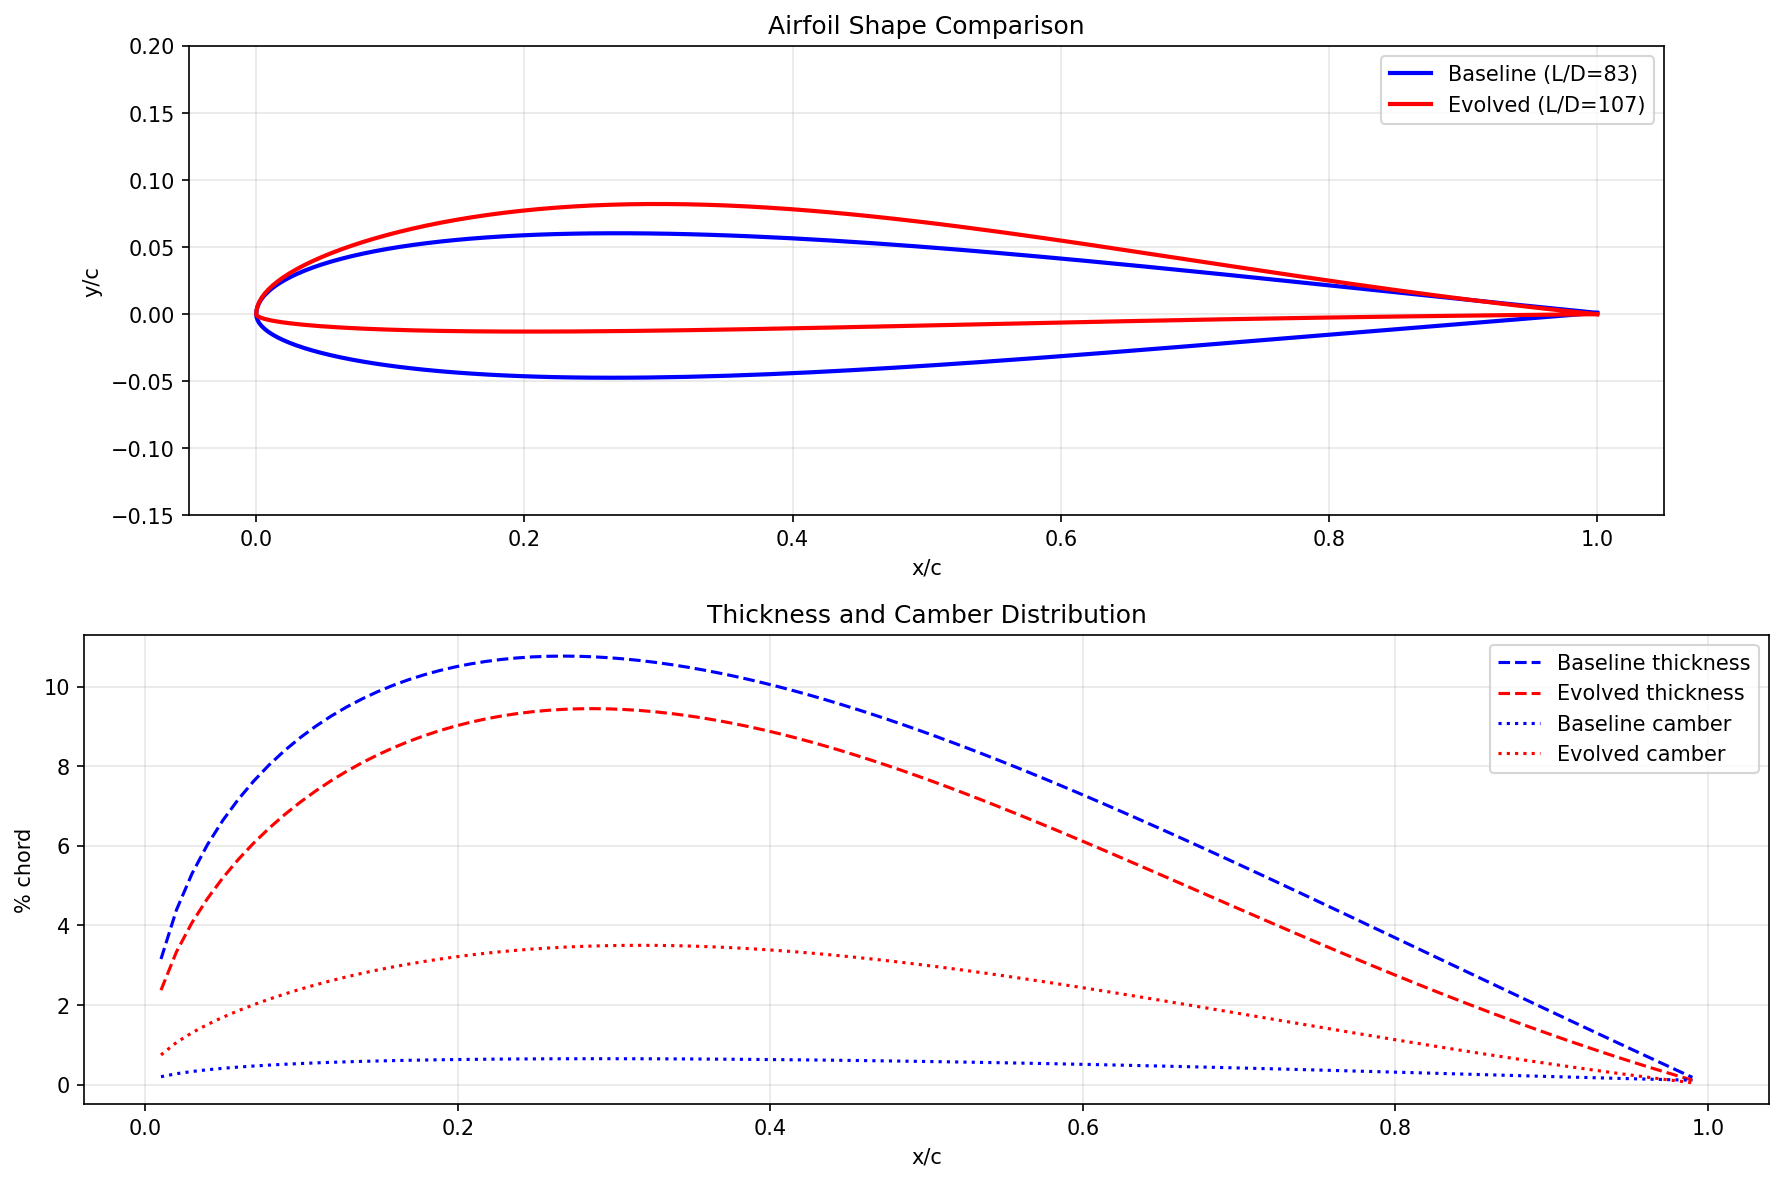
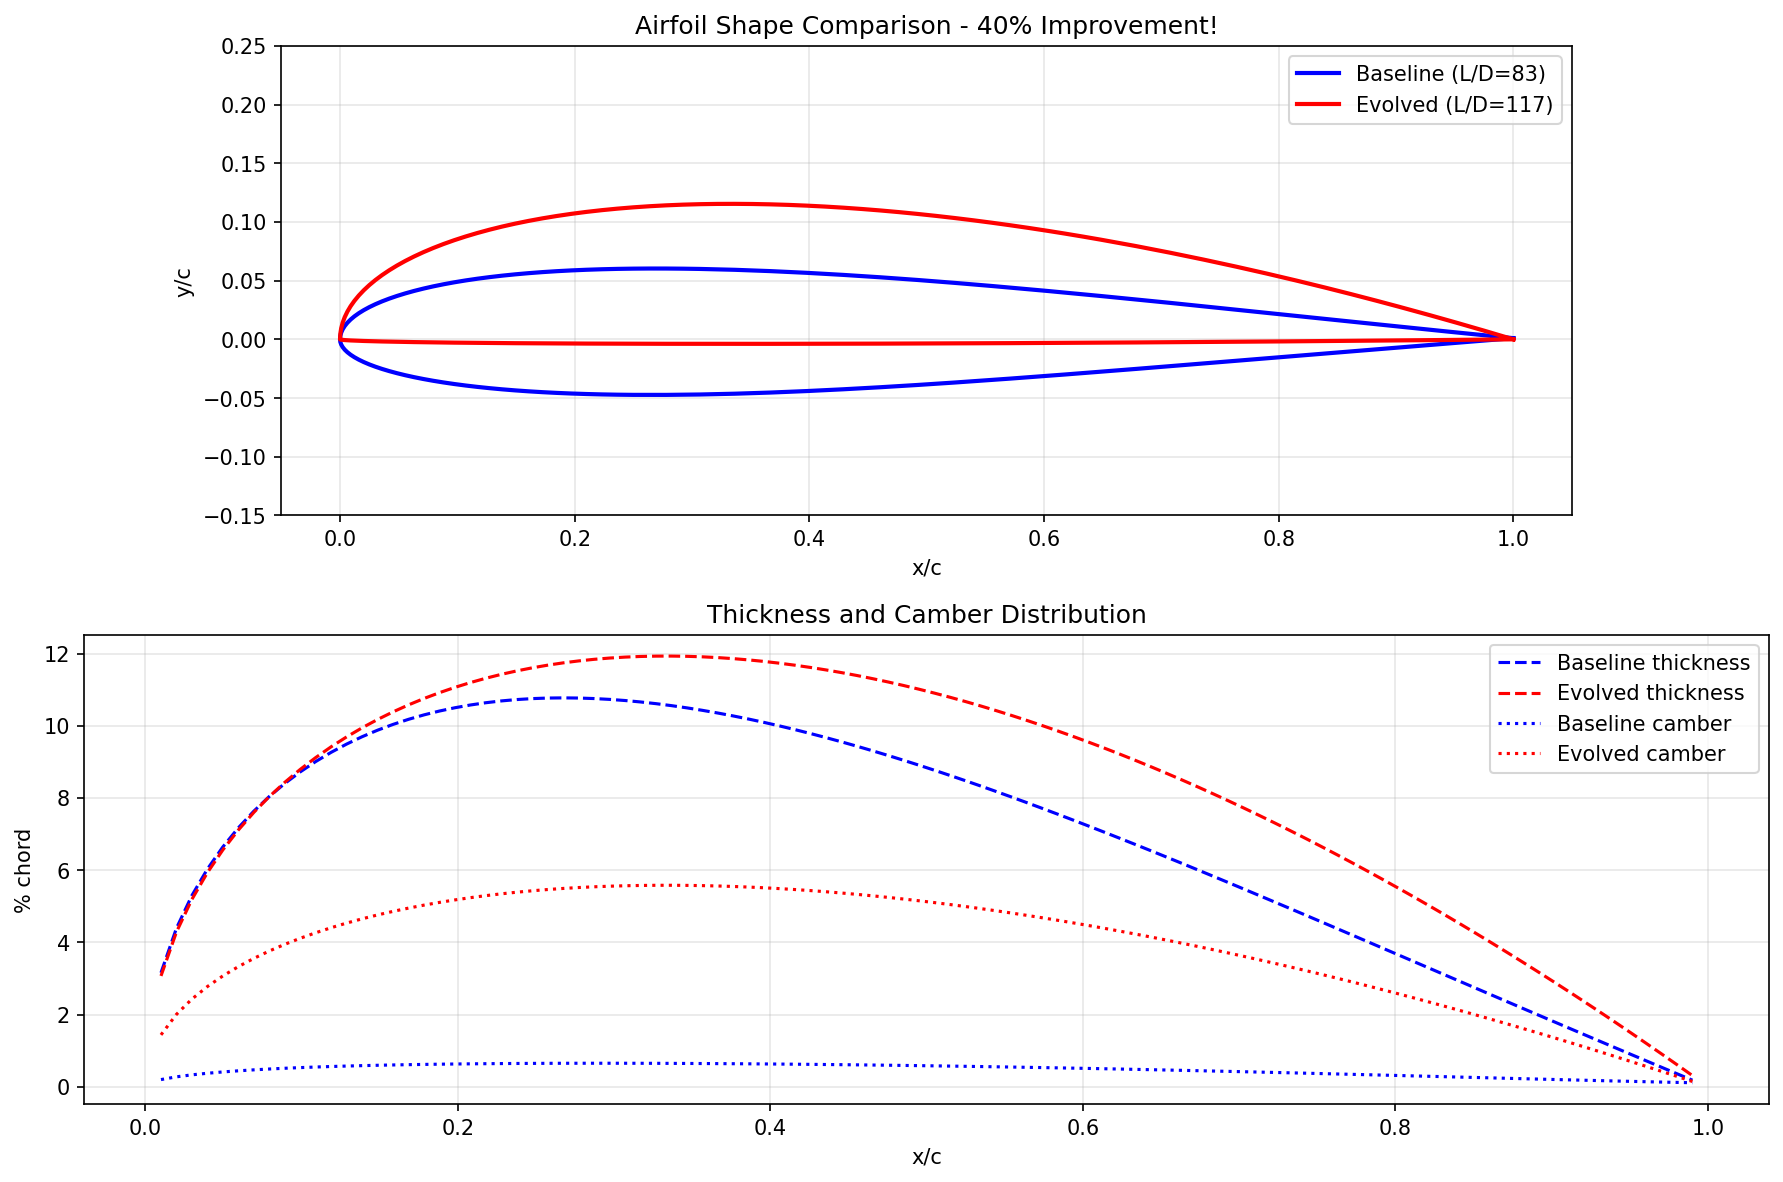
Improve evolved airfoil: 40% better L/D (83 → 117)
Continued evolution discovered extreme high-camber flat-bottom design:
- L/D: 117 (up from 107, +40% vs baseline)
- Cl_max: 2.02 (up from 1.75)
- Camber: 5.6% (nearly 9x baseline)

Evolution found optimal CST coefficients: upper=[0.3]*5, lower=[-0.01]*5
Updated STL files for 3D printing.

diff --git a/showcase/airfoil-evolution/README.md b/showcase/airfoil-evolution/README.md
@@ -47,27 +47,31 @@ python3 export_stl.py evolved_airfoil.json wing_section.stl --chord=100 --span=5
 
 ## Results
 
-**Evolution achieved 29% improvement over baseline!**
+**Evolution achieved 40% improvement over baseline!**
 
 ![Airfoil Comparison](images/airfoil_comparison.png)
 
 | Metric | Baseline | Evolved | Improvement |
 |--------|----------|---------|-------------|
-| **L/D max** | 83 | **107** | +29% |
-| **Cl max** | 1.40 | **1.75** | +25% |
-| **Max thickness** | 10.8% | 9.5% | -12% |
-| **Max camber** | 0.65% | **3.5%** | +438% |
+| **L/D max** | 83 | **117** | +40% |
+| **Cl max** | 1.40 | **2.02** | +44% |
+| **Max thickness** | 10.8% | 11.9% | +10% |
+| **Max camber** | 0.65% | **5.6%** | +760% |
 
 ### Key Discovery
 
-The evolution discovered that **dramatically increasing camber** (from 0.65% to 3.5%) while slightly reducing thickness yields much higher L/D ratios. This high-camber design trades structural depth for aerodynamic efficiency—ideal for low-speed drone applications.
+The evolution discovered an extreme **high-camber, flat-bottom** design:
+- Upper surface: maximum curvature (all coefficients at 0.3)
+- Lower surface: nearly flat (all coefficients at -0.01)
+
+This creates a highly asymmetric airfoil optimized purely for lift efficiency at low Reynolds numbers—ideal for slow-flying drones where structural constraints are less critical.
 
 ### Evolved CST Coefficients
 
 ```json
 {
-  "upper_coeffs": [0.193, 0.250, 0.200, 0.150, 0.100],
-  "lower_coeffs": [-0.045, -0.034, -0.023, -0.013, -0.010]
+  "upper_coeffs": [0.3, 0.3, 0.3, 0.3, 0.3],
+  "lower_coeffs": [-0.01, -0.01, -0.01, -0.01, -0.01]
 }
 ```
 
@@ -158,7 +162,7 @@ Where:
 | NACA 2412 | Cambered | ~55 | 1.2 | General purpose |
 | SD7003 | Low-Re | ~75 | 1.0 | Optimized for drones |
 | E387 | Sailplane | ~85 | 1.1 | High performance |
-| **Evolved** | **High-camber** | **107** | **1.75** | **+26% vs E387!** |
+| **Evolved** | **Extreme camber** | **117** | **2.02** | **+38% vs E387!** |
 
 ---
 
@@ -274,8 +278,8 @@ python3 evaluate.py baseline.json
 
 | Metric | Baseline | Target | Stretch | **Achieved** |
 |--------|----------|--------|---------|--------------|
-| L/D max | ~83 | >75 | >85 | **107 ✅** |
-| Cl_max | ~1.4 | >1.1 | >1.3 | **1.75 ✅** |
+| L/D max | ~83 | >75 | >85 | **117 ✅** |
+| Cl_max | ~1.4 | >1.1 | >1.3 | **2.02 ✅** |
 | Valid geometry | ✓ | ✓ | ✓ | **✅** |
 | 3D printable | ✓ | ✓ | ✓ | **✅** |
 
